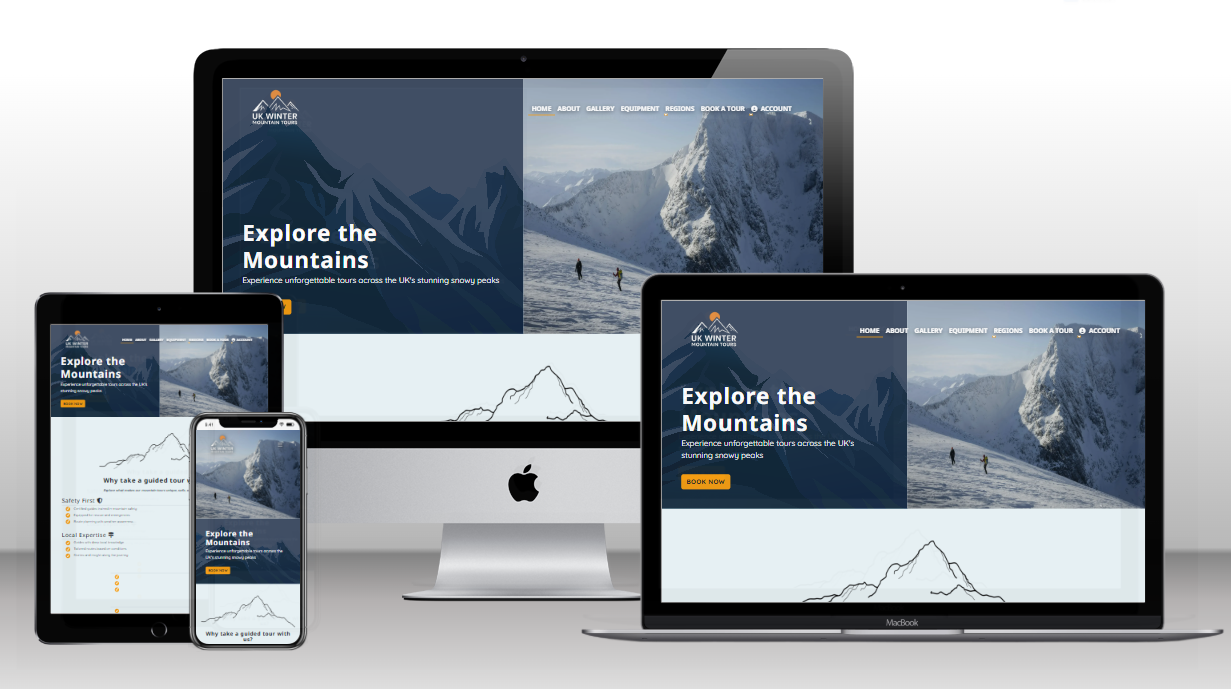
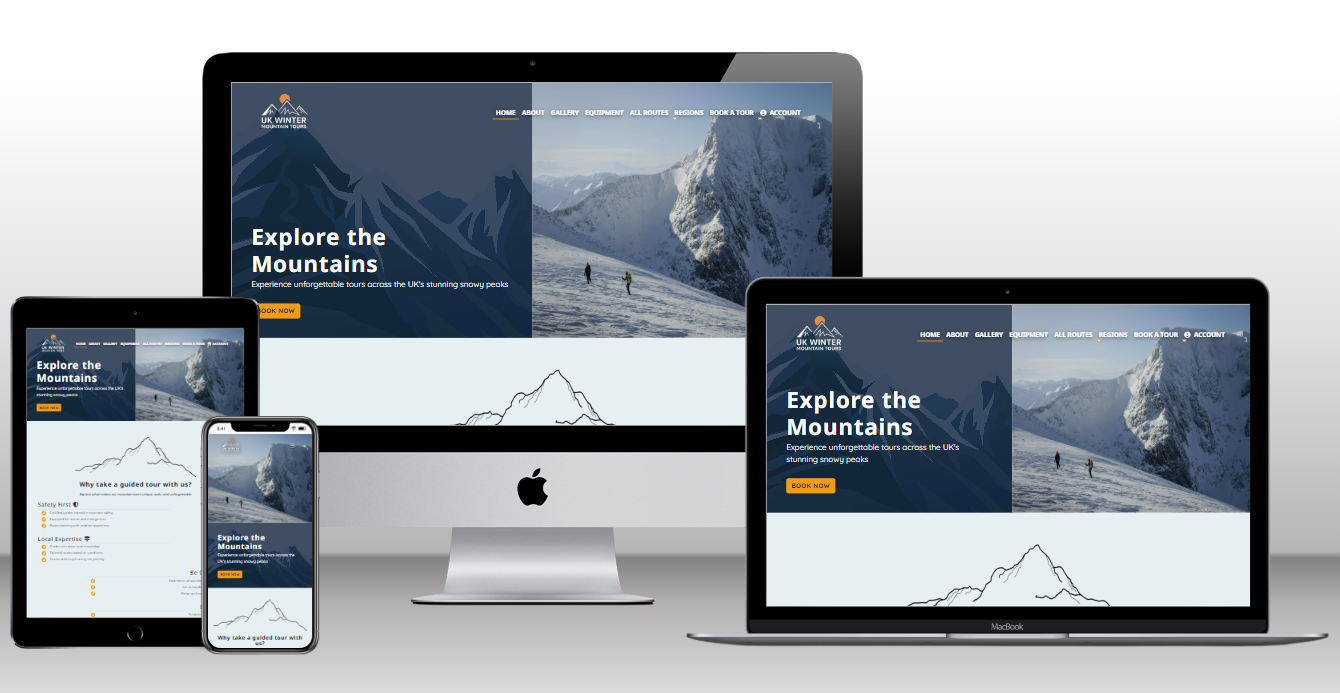
docs(readme): polish wording and formatting

diff --git a/tools/update_image_refs_to_webp.py b/tools/update_image_refs_to_webp.py
@@ -11,7 +11,7 @@ SKIP_KEYWORDS = ["logo", "icon"]
 SKIP_FOLDER = "favicon/"
 
 # Match any 'images/...*.jpg|jpeg' inside quotes, url(), or Django {% static %} usage.
-# Only capture the path up to the extension so we can swap it cleanly.
+# Only capture the path up to the extension so can swap it cleanly.
 PATTERN = re.compile(r'(?i)(images/[^"\'\)]+?)\.(?:jpe?g)')
 
 

diff --git a/README.md b/README.md
@@ -1,4 +1,6 @@
-# UK Winter Mountain Tours V2
+<div align="center">
+
+# UK Winter Mountain Tours V2 README
 
 [![Build Status](https://img.shields.io/badge/build-passing-brightgreen)](https://github.com/TGOSS1984/uk_winter_mountain_tours_v2/actions)
 ![Coverage](docs/badges/coverage.svg)
@@ -10,6 +12,12 @@
 [![License: MIT](https://img.shields.io/badge/License-MIT-yellow.svg)](LICENSE)
 [![Open Issues](https://img.shields.io/github/issues/TGOSS1984/uk_winter_mountain_tours_v2)](https://github.com/TGOSS1984/uk_winter_mountain_tours_v2/issues)
 [![Closed Issues](https://img.shields.io/github/issues-closed/TGOSS1984/uk_winter_mountain_tours_v2)](https://github.com/TGOSS1984/uk_winter_mountain_tours_v2/issues?q=is%3Aissue+is%3Aclosed)
+
+</div>
+
+<div align="center">
+<img src="assets/images/readme_logo.png" alt="Logo" width="80" height="80">
+</div>
 
 ---
 
@@ -32,7 +40,7 @@ Although the project already delivers a complete and working product, there rema
 
 In short, this project has been both a technical and personal milestone, combining my passion for the outdoors with practical full-stack development skills, and showing me how much can be achieved when good design, careful structure, and persistence come together.
 
-[Heroku Link to project](https://uk-winter-mountain-tours-v2-c6f21d80d2c8.herokuapp.com/)
+[Live Site](https://uk-winter-mountain-tours-v2-c6f21d80d2c8.herokuapp.com/)
 
 ---
 
@@ -93,7 +101,7 @@ User Stories in this README map to the same IDs/titles used on the board.
 
 - **Process:** Epics → User Stories → Tasks with acceptance criteria.
 - **Board:** Project board linked above; issues reference user stories in this README.
-- **MoSCoW final split:** Must 38 % · Should 44 % · Could 19 % · Won’t 0 % (Should ≤ 60 % ✅)
+- **MoSCoW final split:** Must 38 % · Should 43 % · Could 19 % · Won’t 0 % (Should ≤ 60 % ✅)
 - **Evidence:** Screens in `docs/screenshots/agile_board_screen.PNG` & screenshot below (Backlog, In Progress, Done).
 
 ![Agile board](docs/screenshots/agile_board_screen.PNG)
@@ -231,10 +239,9 @@ Examples:
     - **Tests:** **Manual:** When more than 9 routes are returned, clicking “Next”/“Previous” moves between pages and keeps filters applied.
 
 16. **As a user, I want to be prevented from booking tours in the past, so that I don’t accidentally select an invalid date.**
-
-- **Issue:** [US-16]
-- **Implementation:** Added `clean_date()` to `BookingForm` in `bookings/forms.py` to validate that selected dates are today or later. Updated `__init__` to set the `min` attribute on the HTML5 date picker so users can’t pick past days in the browser. No model changes required.
-- **Tests:** `bookings/tests/test_booking_date_validation.py` (rejects past dates, allows today); **Manual:** browser date picker starts at today, past dates disabled.
+    - **Issue:** [US-16]
+    - **Implementation:** Added `clean_date()` to `BookingForm` in `bookings/forms.py` to validate that selected dates are today or later. Updated `__init__` to set the `min` attribute on the HTML5 date picker so users can’t pick past days in the browser. No model changes required.
+    - **Tests:** `bookings/tests/test_booking_date_validation.py` (rejects past dates, allows today); **Manual:** browser date picker starts at today, past dates disabled.
 
 _Notes:_ Some closely related user stories share a single GitHub Issue when implemented in the same change set.
 
@@ -263,7 +270,7 @@ _Notes:_ Some closely related user stories share a single GitHub Issue when impl
 - **Backend:** Django project with modular apps (`bookings`, `core`, `mountain_tours_v2`).
 - **Frontend:** Django templates with Bootstrap; Leaflet + GPX plugin for maps.
 - **Static files:** Served locally via `django.contrib.staticfiles`; in production via **Whitenoise**.
-- **Database:** SQLite in development; Heroku Postgres in production (recommended).
+- **Database:** SQLite in development; Heroku Postgres in production.
 - **Deployment:** Heroku using `Procfile` and environment variables.
 
 **High-Level Flow**
@@ -289,7 +296,7 @@ Static/Media (via Whitenoise)  ↘ Leaflet JS (GPX overlays)
 **Business Rules**
 
 - Prevent double-booking of the same guide/time slot.
-- Optional: enforce route capacity per day.
+- Prevent booking of dates in the past
 
 ### Database Schema
 
@@ -373,10 +380,14 @@ For this project I kept all custom images and front-end assets inside an `assets
 
 ## Wireframes & Mockups
 
+When designing the look for the website, I wanted a hero image & a CTA button for immediate access to booking. The idea was to have an image on the right & a patterned design on the left which starts as a row and on mobile screens becomes a column (using bootstrap's responsive grid).
+
 - Home page wireframe  
   ![Homepage Mockup](assets/images/screenshots/wireframes/wireframe_homepage_mockup.PNG)
 - Region/Route wireframe  
   ![Region/Route Mockup](assets/images/screenshots/wireframes/wireframe_regions_mockup.PNG)
+- Colour Palette Used (Aim was for cold blues / greys with a pop of orange for CTA buttons)
+  ![Colour Palettes](assets/images/screenshots/ux/colour_palette.PNG)
 
 ---
 
@@ -479,7 +490,7 @@ Production-friendly error pages are provided:
 
    ```bash
    git clone <repo-url>
-   cd UK_WINTER_MOUNTAIN_TOURS_V2
+   cd uk_winter_mountain_tours_v2
    ```
 
 2. **Create virtualenv & install Python requirements**
@@ -520,9 +531,7 @@ Production-friendly error pages are provided:
 
 7. **Emails**
 
-   ```bash
    In development, emails use the console backend (printed in the terminal). In CI tests, the locmem backend is used. In production, configure SMTP via the variables in **Environment Variables → Email (prod)**.
-   ```
 
 ---
 
@@ -642,24 +651,27 @@ npm test
 #### Negative-path tests
 
 - **Double booking is rejected**
-  - **What we test:** Attempt to create a second booking for the same guide overlapping the same time window.
-  - **Expected:** Form/model validation raises an error; no record persisted; user sees a clear message.
-  - **Where:** `bookings/tests/test_models.py::test_cannot_double_book_same_guide_timeslot` (or in `test_views.py` if you validate in the view).
+  - **What we test:** Attempt to create a second booking for the same guide on the same date/time slot.
+  - **Expected:** App/model validation or DB constraint prevents save; no duplicate record.
+  - **Where:** `bookings/tests/test_models.py::BookingModelTests::test_prevent_double_booking_same_guide_same_date_slot`
 
 - **Past-date booking is invalid**
   - **What we test:** Submitting a booking with a date before today.
-  - **Expected:** `BookingForm.clean_date()` invalidates the form; error shown on the date field; no record created.
-  - **Where:** `bookings/tests/test_booking_date_validation.py::test_past_date_rejected`
+  - **Expected:** `BookingForm.clean_date()` rejects past dates; error on the date field; no record created.
+  - **Where:** `bookings/tests/test_booking_date_validation.py::test_booking_form_rejects_past_date`
+  - _Companion positive-path:_ `bookings/tests/test_booking_date_validation.py::test_booking_form_allows_today`
+
+##### Planned negative-path tests (post-submission)
 
 - **Missing CSRF token blocks state-changing requests**
-  - **What we test:** POST to a protected endpoint (e.g., cancel booking) without a CSRF token.
-  - **Expected:** Response status **403** with CSRF verification message; no state change.
-  - **Where:** `bookings/tests/test_security.py::test_cancel_without_csrf_returns_403`
+  - **What we’ll test:** POST to a protected endpoint (e.g., cancel booking) without a CSRF token.
+  - **Expected:** `403` with CSRF verification message; no state change.
+  - **Where (planned):** `bookings/tests/test_security.py::test_cancel_without_csrf_returns_403`
 
 - **Invalid/empty filter params don’t error**
-  - **What we test:** Hitting `/routes/` with malformed or contradictory querystring params.
-  - **Expected:** Graceful handling (HTTP 200), either an empty result message or a reduced set; no exceptions logged.
-  - **Where:** `bookings/tests/test_views_routes.py::test_invalid_filters_gracefully_return_empty_queryset`
+  - **What we’ll test:** Hitting `/routes/` with malformed/contradictory querystring params.
+  - **Expected:** Graceful handling (`200`), empty or reduced results; no exceptions.
+  - **Where (planned):** `bookings/tests/test_views_routes.py::test_invalid_filters_gracefully_return_empty_queryset`
 
 ### Test Evidence
 
@@ -859,7 +871,7 @@ Heroku automatically provides `DATABASE_URL` for **Heroku Postgres**, which this
 
 - Core models & relationships ✅
 - Business rules (no double booking) ✅
-- Defensive validation documented (past-date, double-booking, CSRF negative-path tests) ✅
+- Defensive validation documented (past-date, double-booking; CSRF test planned) ✅
 - CRUD explained (Create/Read/Delete user-facing, Update via admin with rationale) ✅
 
 **LO3 — Implementation & Code Quality**
@@ -949,7 +961,7 @@ Legend: ✅ covered | ⚠ partial | ⬜ planned/future enhancement
 | ------------------------- | ---------- | ----------: | ------------: | -------------: | --: |
 | `/` (Home)                | 2025-10-03 |          67 |           100 |            100 | 100 |
 | `/about/` (About)         | 2025-10-03 |          65 |           100 |            100 | 100 |
-| `/regions/lake-district/` | 2025-10-03 |          63 |            xx |            100 | 100 |
+| `/regions/lake-district/` | 2025-10-03 |          63 |             - |            100 | 100 |
 | `/routes/` (All Routes)   | 2025-10-03 |          64 |           100 |            100 | 100 |
 
 > \_Scores taken from Chrome DevTools Lighthouse audit on deployed Heroku app (desktop).
@@ -957,7 +969,7 @@ Legend: ✅ covered | ⚠ partial | ⬜ planned/future enhancement
 
 **On Region pages**: Accessibility issues with GPX maps - referenced in known issues / bugs
 
-### 🔧 Lighthouse Performance Improvements
+### Lighthouse Performance Improvements
 
 It is noted that performance score could be improved, however here are some of the steps taken to try and improve it so far:
 
@@ -974,6 +986,8 @@ It is noted that performance score could be improved, however here are some of t
 ---
 
 ## Major Bugs & Fixes
+
+Here are some real life examples of bugs that I came across during the building of my project, I documented the bug and the fix that I applied.
 
 **GPX files not displaying on Leaflet maps**
 
@@ -1044,6 +1058,8 @@ Throughout development I relied heavily on Chrome DevTools to troubleshoot front
 Using DevTools to check request status codes, headers, and JavaScript errors sped up front-end debugging and helped verify fixes before committing.
 
 ### Known Issues/Bugs
+
+Issues I am currently aware of : These do not affect core booking flows.
 
 **Leaflet GPX waypoints/markers affect Lighthouse Accessibility**
 
@@ -1117,7 +1133,10 @@ Planned upgrade: In a future iteration, these CTAs will be wired to either a lig
   - Allow users to **save favourite routes** or “plan a trip” list.
   - **Search by start point / nearest town** — location-based discovery.
   - Weather integration (basic forecast per route region on the booking page).
-  - Link CTA buttons (“Subscribe”, “Say hello”) to real forms or email marketing services (Mailchimp, Django contact forms).
+  - **Wire CTA buttons (“Subscribe”, “Say hello”) to real services**
+    - **Status:** Currently implemented as intentional placeholders in the MVP.
+    - **Current behaviour:** Clicking routes to a “thank you” page (acknowledgement + back-to-home auto-redirect); no data stored or emailed.
+    - **Planned upgrade:** Connect to a lightweight service (Formspree/Mailchimp) or a Django model + form handling flow so submissions are saved and manageable in Admin.
 
 ---
 
@@ -1139,7 +1158,7 @@ Planned upgrade: In a future iteration, these CTAs will be wired to either a lig
 - **Heroku** – for deployment.
 - **Ordnance Survey / GPX providers** – for route data.
 - **Django & Python open-source community** – for frameworks and libraries.
-- **AI assistance (ChatGPT)** – used as a support tool for documentation tasks such as README formatting, template examples, to-do checklists, and structuring notes. Used to cross check and map assesment criteria for easy tracking (added to readme).
+- **AI assistance (ChatGPT)** – used as a support tool for documentation tasks such as README formatting, template examples, to-do checklists, and structuring notes. Used to cross check and map assesment criteria for easy tracking (added to readme). Used to support with tools for image resizing & formatting in bulk.
   All coding, testing, and implementation decisions were completed by me.
 - **Images** – Logo created by Tom Goss, gallery images actual photos from winter hikes, other images google images
 - **Why Section** – Inspired by Code Institute Love Running Project
